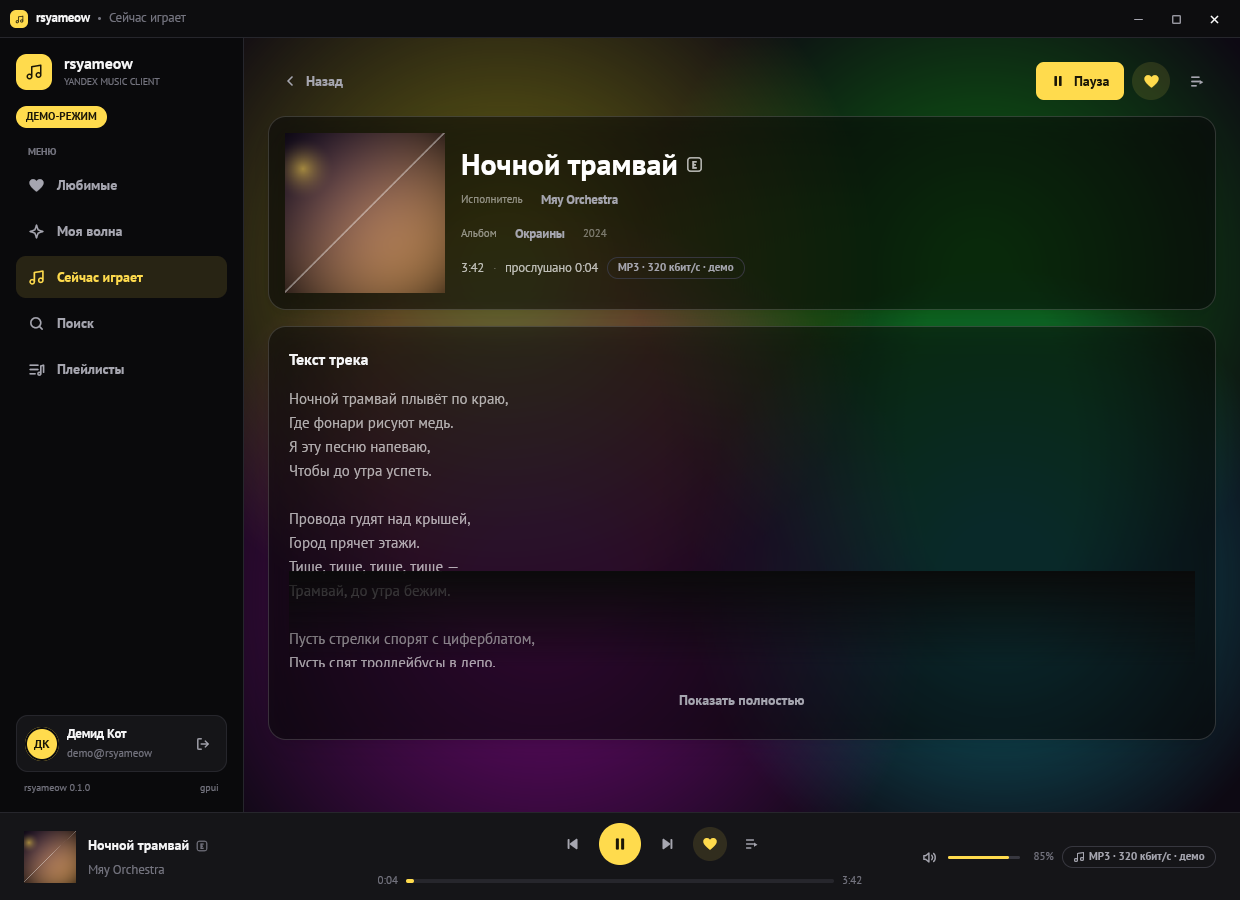
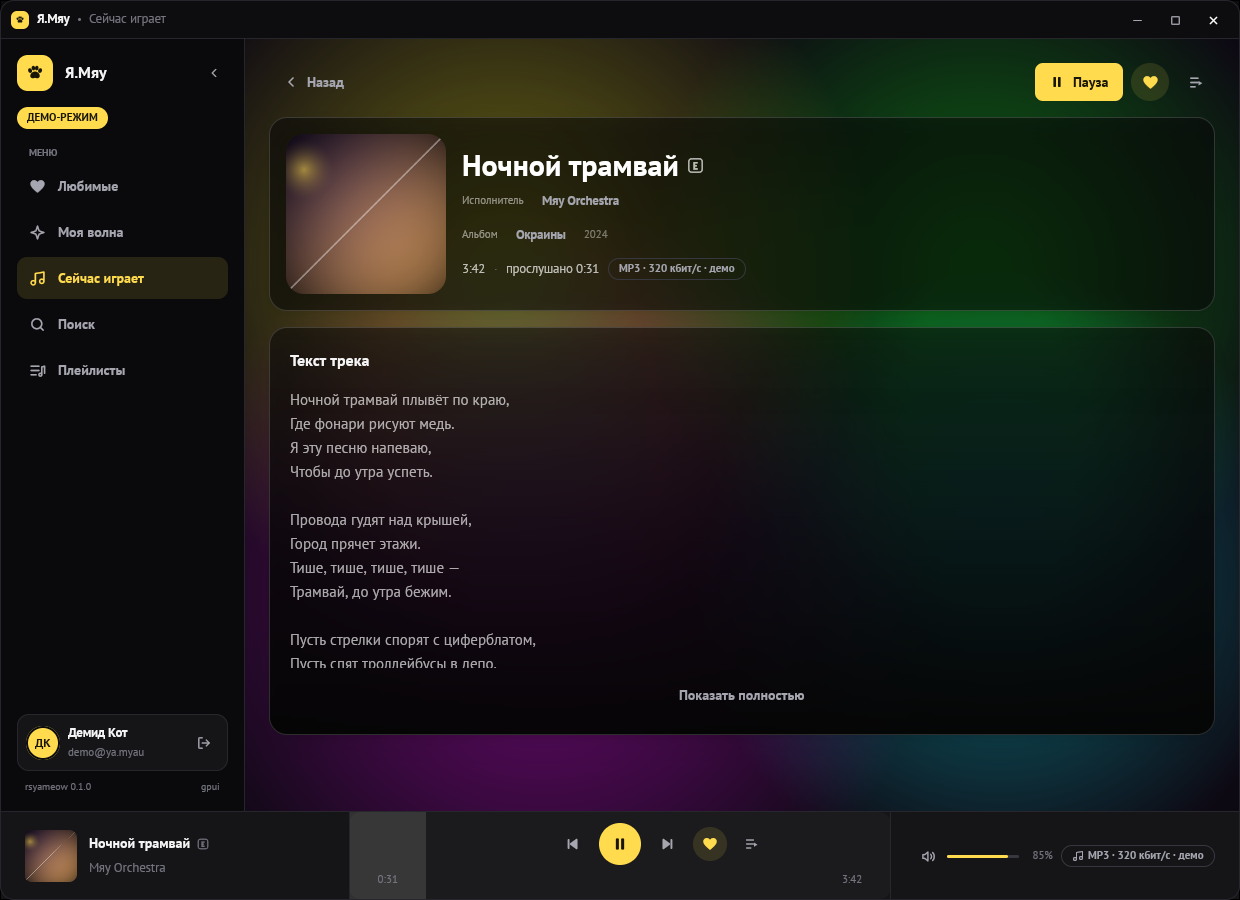
Round all cover art and the application window

diff --git a/crates/app/src/main.rs b/crates/app/src/main.rs
@@ -14,8 +14,8 @@ use app::{
 };
 use assets::Assets;
 use gpui::{
-    App, AppContext as _, Application, Bounds, KeyBinding, SharedString, WindowBounds,
-    WindowDecorations, WindowOptions, px, size,
+    App, AppContext as _, Application, Bounds, KeyBinding, SharedString,
+    WindowBackgroundAppearance, WindowBounds, WindowDecorations, WindowOptions, px, size,
 };
 use rsyameow_ui::Theme;
 
@@ -154,6 +154,7 @@ fn main() {
                 // every compositor supports client-side decorations; on X11
                 // gpui falls back to server decorations when no compositor is
                 // present, and the header remains usable in both cases.
+                window_background: WindowBackgroundAppearance::Transparent,
                 window_decorations: Some(WindowDecorations::Client),
                 is_movable: true,
                 is_resizable: true,

diff --git a/crates/app/src/view/widgets.rs b/crates/app/src/view/widgets.rs
@@ -41,6 +41,7 @@ pub(crate) fn playlist_cover(theme: &Theme, image: Option<Arc<Image>>, height: f
     let content = match image {
         Some(image) => img(ImageSource::Image(image))
             .size_full()
+            .rounded(px(12.0))
             .object_fit(ObjectFit::Cover)
             .into_any_element(),
         None => div()
@@ -77,6 +78,7 @@ pub(crate) fn search_thumb(
     let content = match image {
         Some(image) => img(ImageSource::Image(image))
             .size_full()
+            .rounded(px(radius))
             .object_fit(ObjectFit::Cover)
             .into_any_element(),
         None => div()

diff --git a/crates/app/src/view/mod.rs b/crates/app/src/view/mod.rs
@@ -65,9 +65,17 @@ impl Render for RootView {
             Screen::Wave => self.wave_view(&theme, cx),
         };
 
+        let maximized = window.is_maximized();
+        let window_radius = if maximized { 0.0 } else { 14.0 };
+
         div()
             .relative()
             .size_full()
+            .rounded(px(window_radius))
+            .overflow_hidden()
+            .when(!maximized, |element| {
+                element.border_1().border_color(theme.colors.border)
+            })
             .flex()
             .flex_col()
             .track_focus(&self.focus_handle)

diff --git a/crates/ui/src/components/player_bar.rs b/crates/ui/src/components/player_bar.rs
@@ -432,6 +432,7 @@ impl RenderOnce for PlayerBar {
         let cover_content = match self.cover {
             Some(image) => img(ImageSource::Image(image))
                 .size_full()
+                .rounded(px(8.0))
                 .object_fit(ObjectFit::Cover)
                 .into_any_element(),
             None => gpui::div()

diff --git a/crates/ui/src/components/track_row.rs b/crates/ui/src/components/track_row.rs
@@ -103,6 +103,7 @@ impl RenderOnce for TrackRow {
         let cover = match self.cover {
             Some(image) => img(ImageSource::Image(image))
                 .size_full()
+                .rounded(px(6.0))
                 .object_fit(ObjectFit::Cover)
                 .into_any_element(),
             None => gpui::div()

diff --git a/crates/ui/src/components/avatar.rs b/crates/ui/src/components/avatar.rs
@@ -62,6 +62,7 @@ impl RenderOnce for Avatar {
         let inner = match self.image {
             Some(image) => img(ImageSource::Image(image))
                 .size_full()
+                .rounded_full()
                 .object_fit(ObjectFit::Cover)
                 .into_any_element(),
             None => gpui::div()

diff --git a/README.md b/README.md
@@ -84,6 +84,8 @@
   лапка.
 - **Схлопываемое меню.** Сайдбар сворачивается до иконок; состояние
   сохраняется между запусками.
+- **Скругления.** Постеры и обложки скруглены во всех списках, карточках и
+  плеере; окно приложения имеет скруглённые углы с тонкой рамкой.
 - **Обновление «Любимых».** Кнопка обновления перезагружает только коллекцию,
   не меняя экран и не останавливая воспроизведение.
 - **Собственный заголовок окна.** Перетаскивание за шапку, двойной клик —
